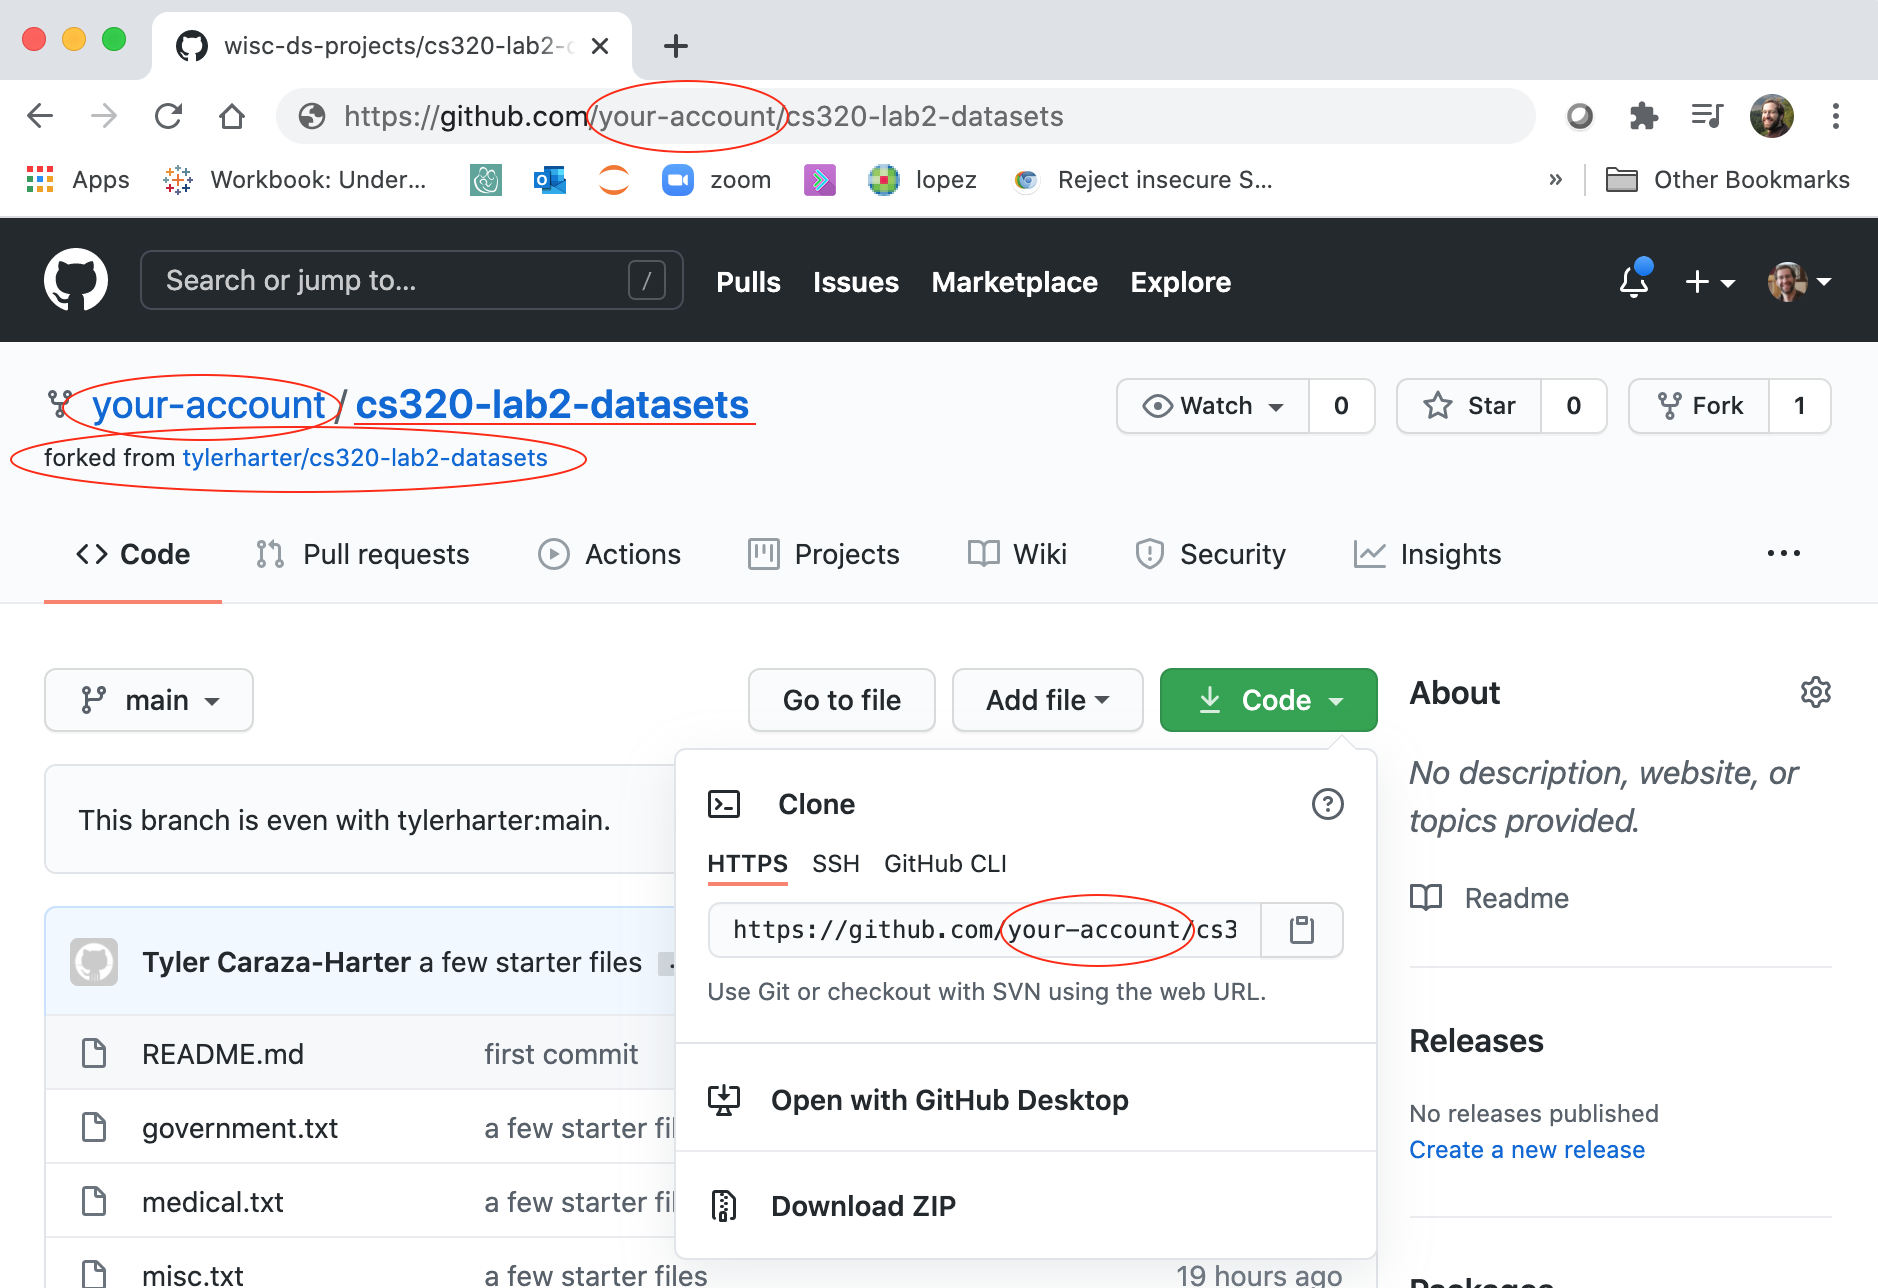
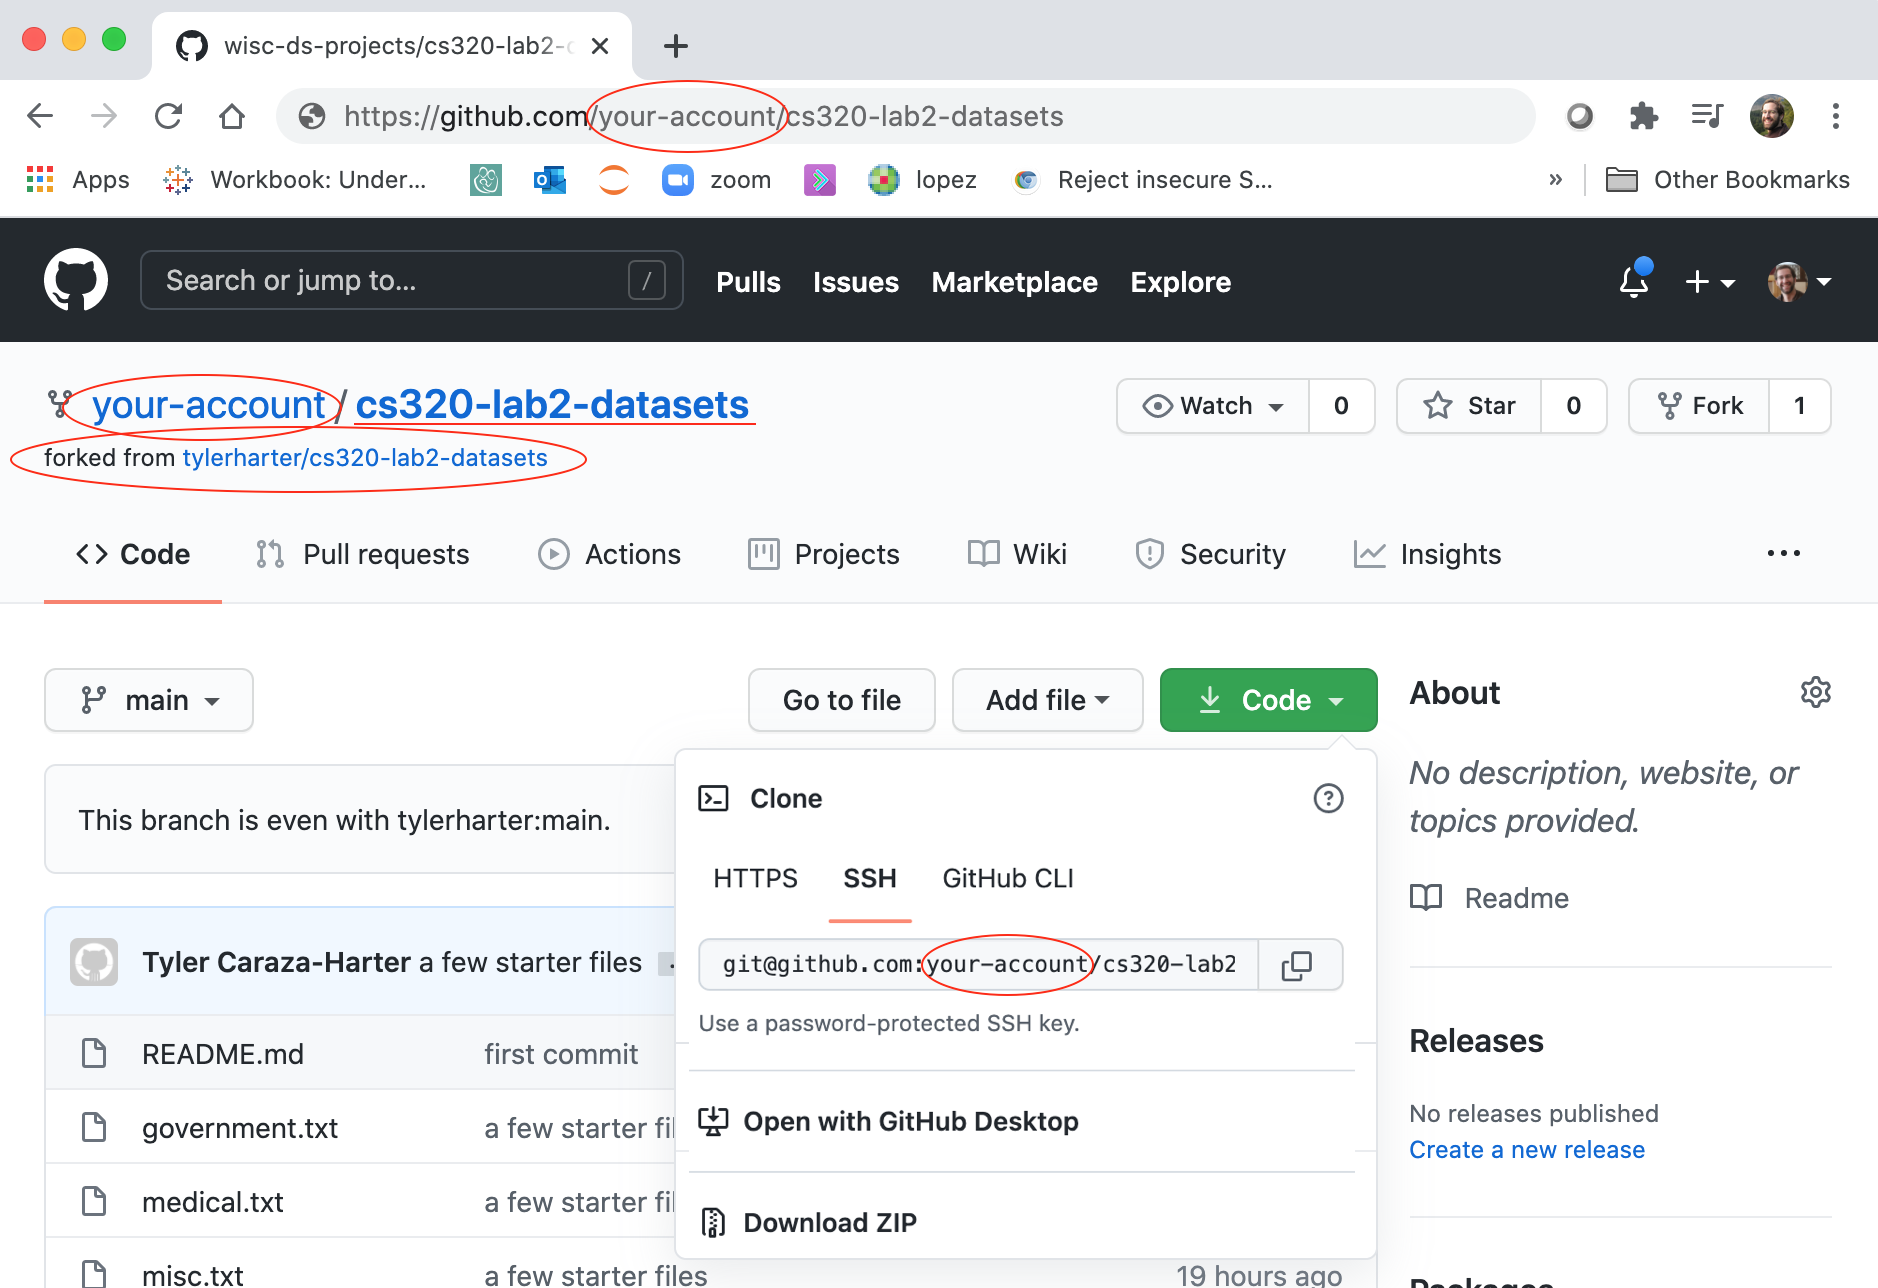
w3 lab

Changed region(s): [[0.3706, 0.5901, 0.7103, 0.8075], [0.3706, 0.8385, 0.6177, 0.9627]]

diff --git a/labs/git-pr/README.md b/labs/git-pr/README.md
@@ -50,23 +50,44 @@ Consider a concrete example of how to use all these commands.  Say you find a bu
 7. do a pull request from your fork to the main pandas repo
 8. somebody in charge of main repo will consider your changes, and probably (a) click a button on GitHub to incorporate your changes, or (b) give you feedback to make the code better first, in which case you go back to step 4
 
-## Step 2: Create GitHub Account
+## Step 1: Create GitHub Account
 
 Go to http://github.com/ and create a GitHub account (choose a name
 that wouldn't embarrass you on a resume):
 
 <img src="1.png" width=600>
 
-Later, running certain git commands will make you type your GitHub
-password each time, unless you setup an SSH key to use instead of a
-password (you likely setup an SSH key during the first lab to access
-your virtual machine).  It's recommended (but not required) that you
-configure GitHub with an SSH key following [these directions](ssh.md).
-
-**Important:** for participation credit, fill [this form](https://forms.gle/BiyfdLRjuGmgcz2t8) so that we know you
+**Important:** for participation credit, fill [this form](https://forms.gle/iKGPVd4o1tPtPcyx6) so that we know you
   completed this part.  Associating your GitHub name with your
   @wisc.edu user will also let us give you credit for pull requests
   you might make to improve the course.
+
+## Step 2: SSH Keys
+
+These steps are similar to the previous lab.  There, we created SSH keys
+on your laptop, allowing you to connect laptop=>VM.  Now, we're
+creating SSH keys on your VM, allowing you to connect VM=>GitHub.
+
+Connect via SSH to your VM.
+
+Run `ssh-keygen` on your VM and repeatedly hitting `ENTER` to accept
+all the defaults (including an empty password).
+
+Run the following and **copy** the output:
+
+```
+cat ~/.ssh/id_rsa.pub
+```
+
+Go to https://github.com/settings/keys and click "New SSH key".
+
+Name the key "cs320-vm" (or whatever you like, really) and past the
+contents of `id_rsa.pub` to the "Key" box, as in the following
+screenshot:
+
+<img src="./10.png" width=600>
+
+Click "Add SSH Key" to finish adding it.
 
 ## Step 3: Create a Repo
 
@@ -81,6 +102,8 @@ you'll see something like this:
 
 <img src="3.png" width=600>
 
+Click the **SSH** button.
+
 Copy the commands in the "create a new repository box".  We want to run those in a new directory on your computer.  So run this in the terminal:
 
 ```
@@ -88,18 +111,21 @@ mkdir cs320-lab2
 cd cs320-lab2
 ```
 
-Then paste and run what you copied from GitHub. Enter your git username/password as necessary. If you are prompted to configure your github account on the VM after trying to commit, please do so. For example, you might need to: 
+Then paste and run what you copied from GitHub.  You shouldn't be
+asked for a password (if so, double check you did the parts of step
+2+3 related to SSH correctly).  If you see "Are you sure you want to
+continue connecting?", type "yes" and ENTER.
 
-1. Set Git username and email if prompted:
+If prompted, you can configure your username/email:
+
 ```
 git config --global user.name "your_github_username"
 git config --global user.email "your_email"
 ```
-2. If you are using HTTPS url instead of SSH, [create token](https://docs.github.com/en/authentication/keeping-your-account-and-data-secure/creating-a-personal-access-token) and use it when prompted to enter password.
 
 <img src="4.png" width=600>
 
-Make sure there are no errors - you configured git if prompted, created commit and pushed it. Refresh the GitHub page for your repo at
+Refresh the GitHub page for your repo at
 https://github.com/tylerharter/cs320-lab2 (with your username instead
 of "tylerharter").  You should now see the first commit, and the
 content of your README.md:
@@ -118,7 +144,9 @@ git commit -m 'say hello'
 git push
 ```
 
-Keep in mind nano is a text editor. Do control-O to write the file. 
+Keep in mind `nano` is an in-terminal text editor so you can only use
+keyboard shortcuts (not the mouse). Do control-O to write the file.
+"^" means CONTROL, and the bottom of the screen should provide hints.
 
 ## Step 4: Pull Request
 
@@ -132,8 +160,8 @@ changes to it via a git push.  Instead, if you think there should be a
 change to a site (like the one above), the process goes like this:
 
 1. make a copy of the GitHub repo, called a "fork", from the original account to your own account
-2. download a copy of the original GitHub repo to your laptop or VM, using the clone command
-3. make changes on your laptop or VM
+2. download a copy of the original GitHub repo to your VM, using the clone command
+3. make changes on your VM
 4. push those changes to your own fork
 5. make a formal request, called a "pull request", for the person of the original repo to integrate the changes on your fork into their codebase
 
@@ -168,10 +196,7 @@ Go to your newly forked repo, which is still named "cs320-lab2-datasets" like th
 
 <img src="8.png" width=600>
 
-Under the "Code" dropdown, **copy the address again**.  But instead of
-cloning this as a new repo on your laptop or VM, we'll link it with the repo
-on your laptop or VM that you got early by cloning the original repo from
-GitHub repo.
+Under the "Code" dropdown, copy the **SSH address** for the repo from the gray box.
 
 Now, go back to the terminal, in the directory where you cloned the original repo.
 Run `git remote -v`, and you'll see something like this:
@@ -187,21 +212,21 @@ remote called "mycopy" that refers to your own forked repo on GitHub.
 Run this, replacing "your-account" with your own GitHub name:
 
 ```
-git remote add mycopy https://github.com/your-account/cs320-lab2-datasets.git
+git remote add mycopy git@github.com:your-account/cs320-lab2-datasets.git
 git remote -v
 ```
 
 You'll see something like this:
 
 ```
-mycopy	https://github.com/your-account/cs320-lab2-datasets.git (fetch)
-mycopy	https://github.com/your-account/cs320-lab2-datasets.git (push)
+mycopy	git@github.com:your-account/cs320-lab2-datasets.git (fetch)
+mycopy	git@github.com:your-account/cs320-lab2-datasets.git (push)
 origin	https://github.com/tylerharter/cs320-lab2-datasets.git (fetch)
 origin	https://github.com/tylerharter/cs320-lab2-datasets.git (push)
 ```
 
-Now, if you want to sync the last commit you made from the main branch
-on your laptop/VM to GitHub, you have two choices:
+Now, if you want to sync the last commit you made on the main branch
+on your VM to GitHub, you have two choices:
 
 1. `git push origin main` (push your changes to the original repo -- in this case, it will fail because I haven't added you as a "collaborator" to my repo)
 2. `git push mycopy main` (push your changes in the main branch on your laptop or VM to your forked copy on GitHub)

diff --git a/labs/git-conflict/README.md b/labs/git-conflict/README.md
@@ -2,7 +2,7 @@
 
 1. In an SSH session, run `export EDITOR=nano` so that `nano` is your default editor for the following practice.
 
-2. Clone the directory first (run `git clone https://github.com/cs320-wisc/s22.git`). If you have already cloned it, run `git pull` to update the directory.
+2. Clone the directory first (run `git clone https://github.com/cs320-wisc/f22.git`). If you have already cloned it, run `git pull` to update the directory.
 
 3. navigate (with `cd`) to `labs/git-conflict` within the semester repo.  Run `unzip repo.zip` to create a `repo` directory, which contains an `adder.py` program. (If you cannot run `unzip` correctly, try to install unzip by running `sudo apt install unzip`.)
 
@@ -20,7 +20,7 @@
 
 * the first merge you do will be easiest, because it is a roll forward merge.  Each of the three branches share a common history with `main`, so `main` can just catch up with the latest commits
 * the changes on the `docs` branch are on a separate file (README.txt), so that will never conflict with the other changes
-* there will be a conflict once you've tried to merge both `args` and `func-rename`.  Resolve it.
+* there will be a conflict once you've tried to merge both `args` and `func-rename`.  Resolve it like we did in class.
 
 **Conflict resolution hints:**
 

diff --git a/labs/git-pr/ssh.md b/labs/git-pr/ssh.md
@@ -1,31 +1,2 @@
 # SSH Keys
 
-You can find what is called your SSH public key by running the
-following and copying the output:
-
-```
-cat ~/.ssh/id_rsa.pub
-```
-
-The above should succeed if you're running commands for this lab on
-your laptop and you created an SSH key there for lab 1.  If, however,
-you're connected to your virtual machine and running commands there
-for this lab, you need to generate an SSH key on the virtual machine.
-(Creating an SSH key on your laptop to connect to your virtual machine
-is different than creating an SSH key on your virtual machine to
-connect to other services, like GitHub).
-
-So if `cat ~/.ssh/id_rsa.pub` fails, try creating an SSH key first
-before retrying by running `ssh-keygen` and repeatedly hitting `ENTER`
-to accept all the defaults (including an empty password).
-
-After you've copied the output from the terminal, go to
-https://github.com/settings/keys and click "New SSH key".
-
-Name the key "cs320-vm" (or whatever you like, really) and past the
-contents of `id_rsa.pub` to the "Key" box, as in the following
-screenshot:
-
-<img src="./10.png" width=600>
-
-Click "Add SSH Key" to finish adding it.

diff --git a/labs/lab3.md b/labs/lab3.md
@@ -1,5 +1,3 @@
-# DRAFT!  Don't start yet.
-
 # Lab 3: Git
 
 Activities:
@@ -11,3 +9,5 @@ Activities:
 3. try [merging branches](./git-conflict) and conflict resolution
 
 4. create a GitHub account and learn how to create a [pull request](./git-pr) to suggest changes to repos on GitHub that you don't own
+
+5. remember that each study group member should fill the TopHat question: https://app.tophat.com/e/594996
